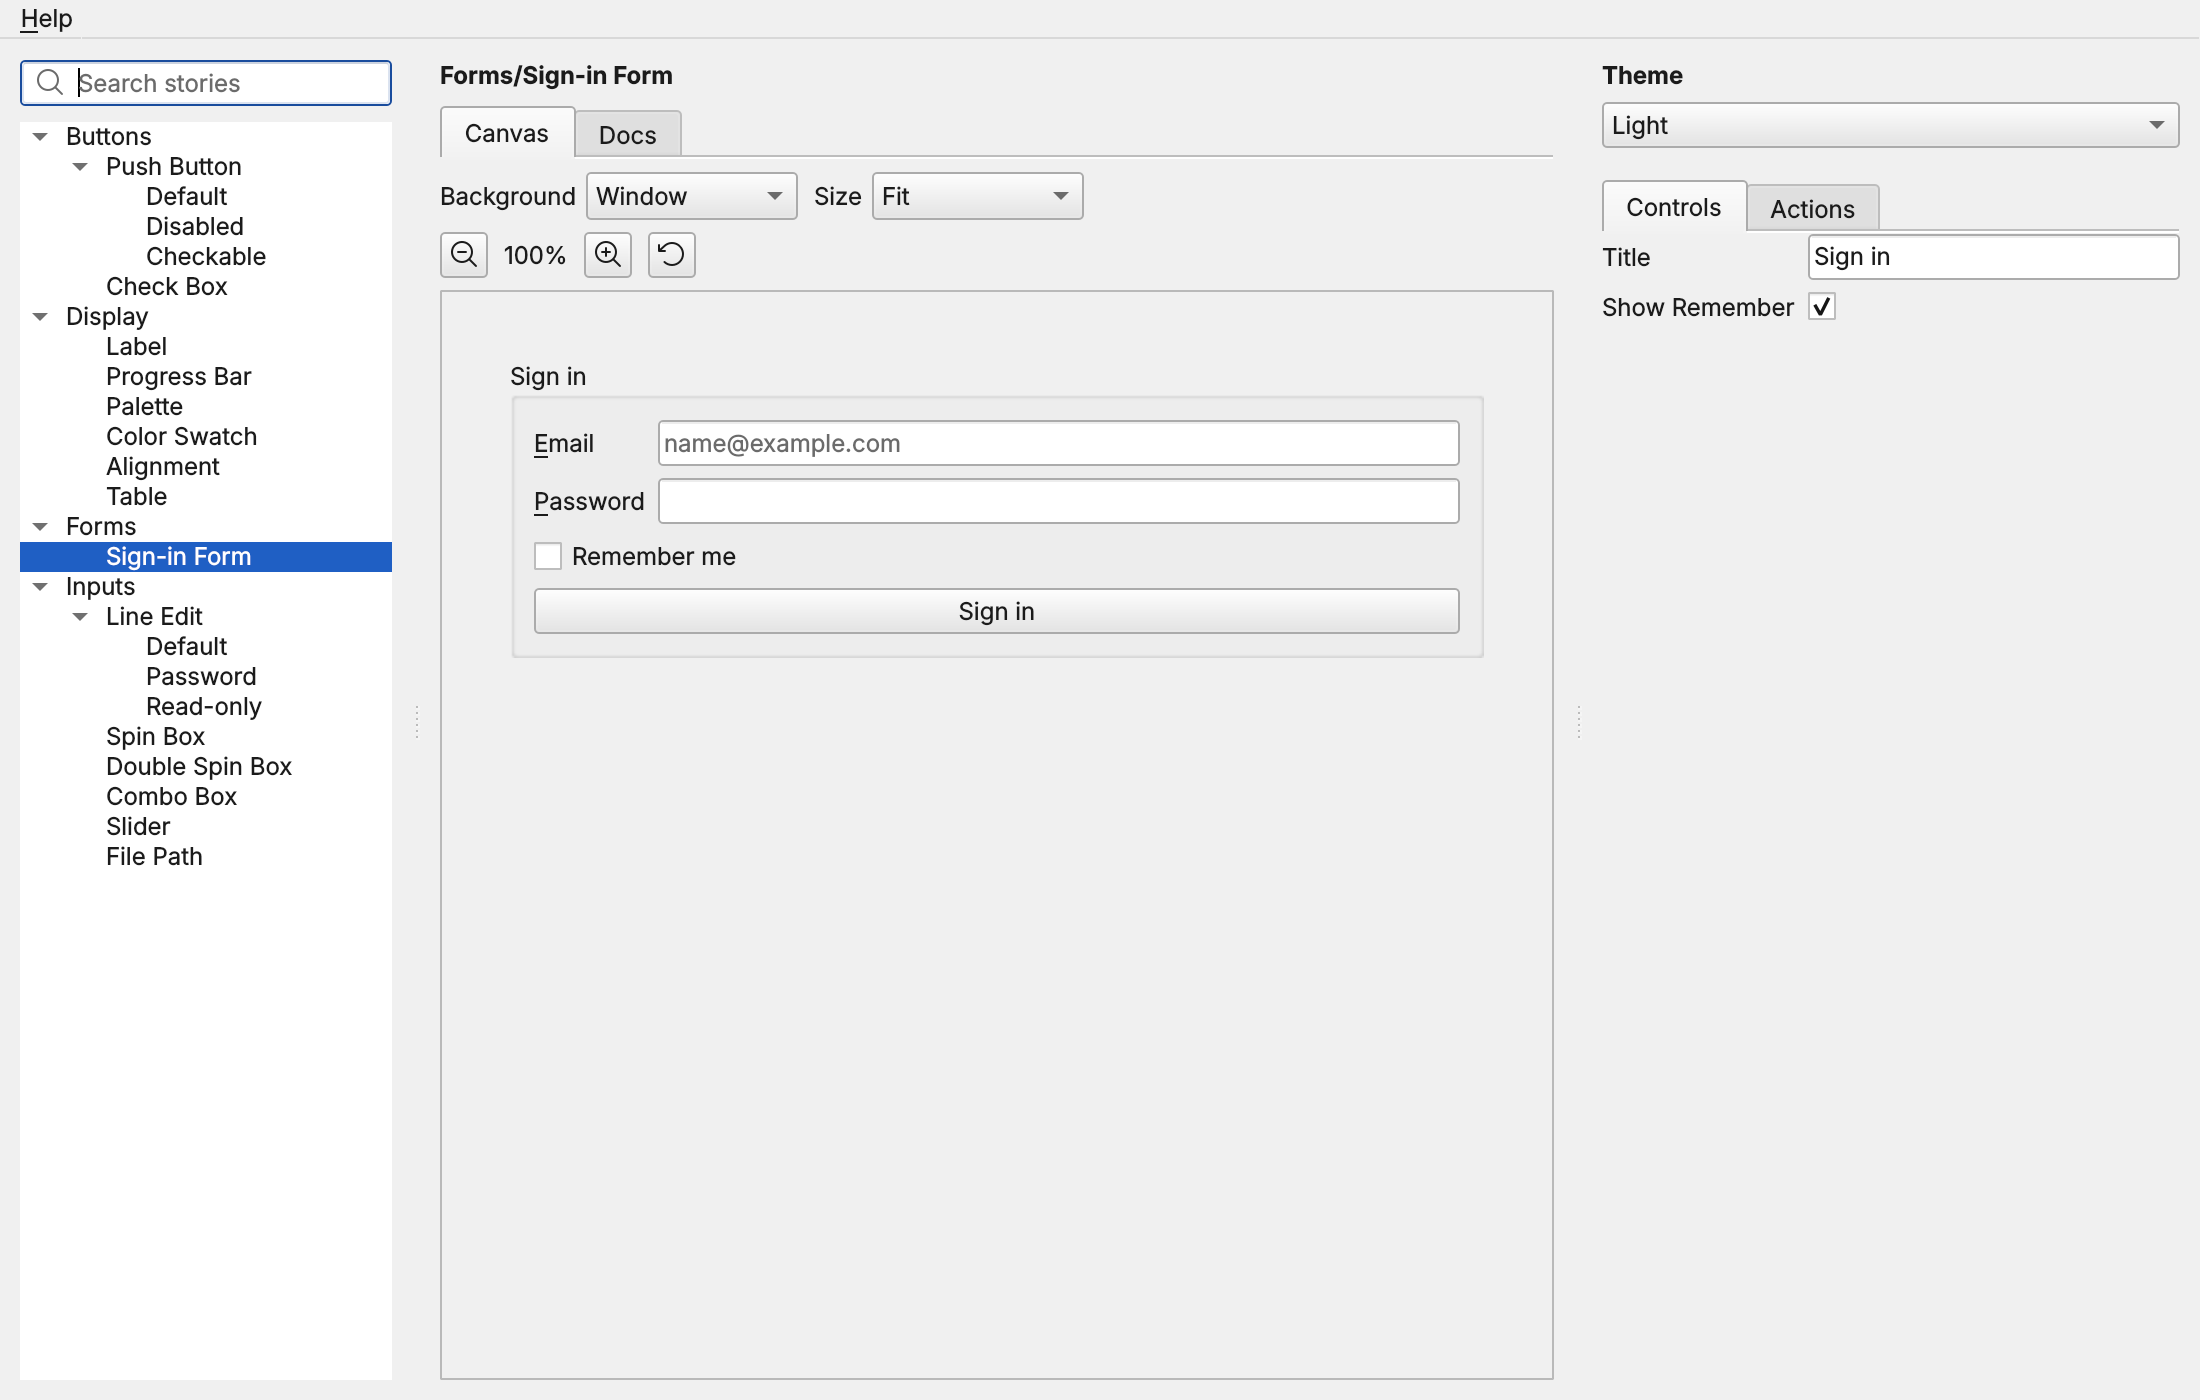
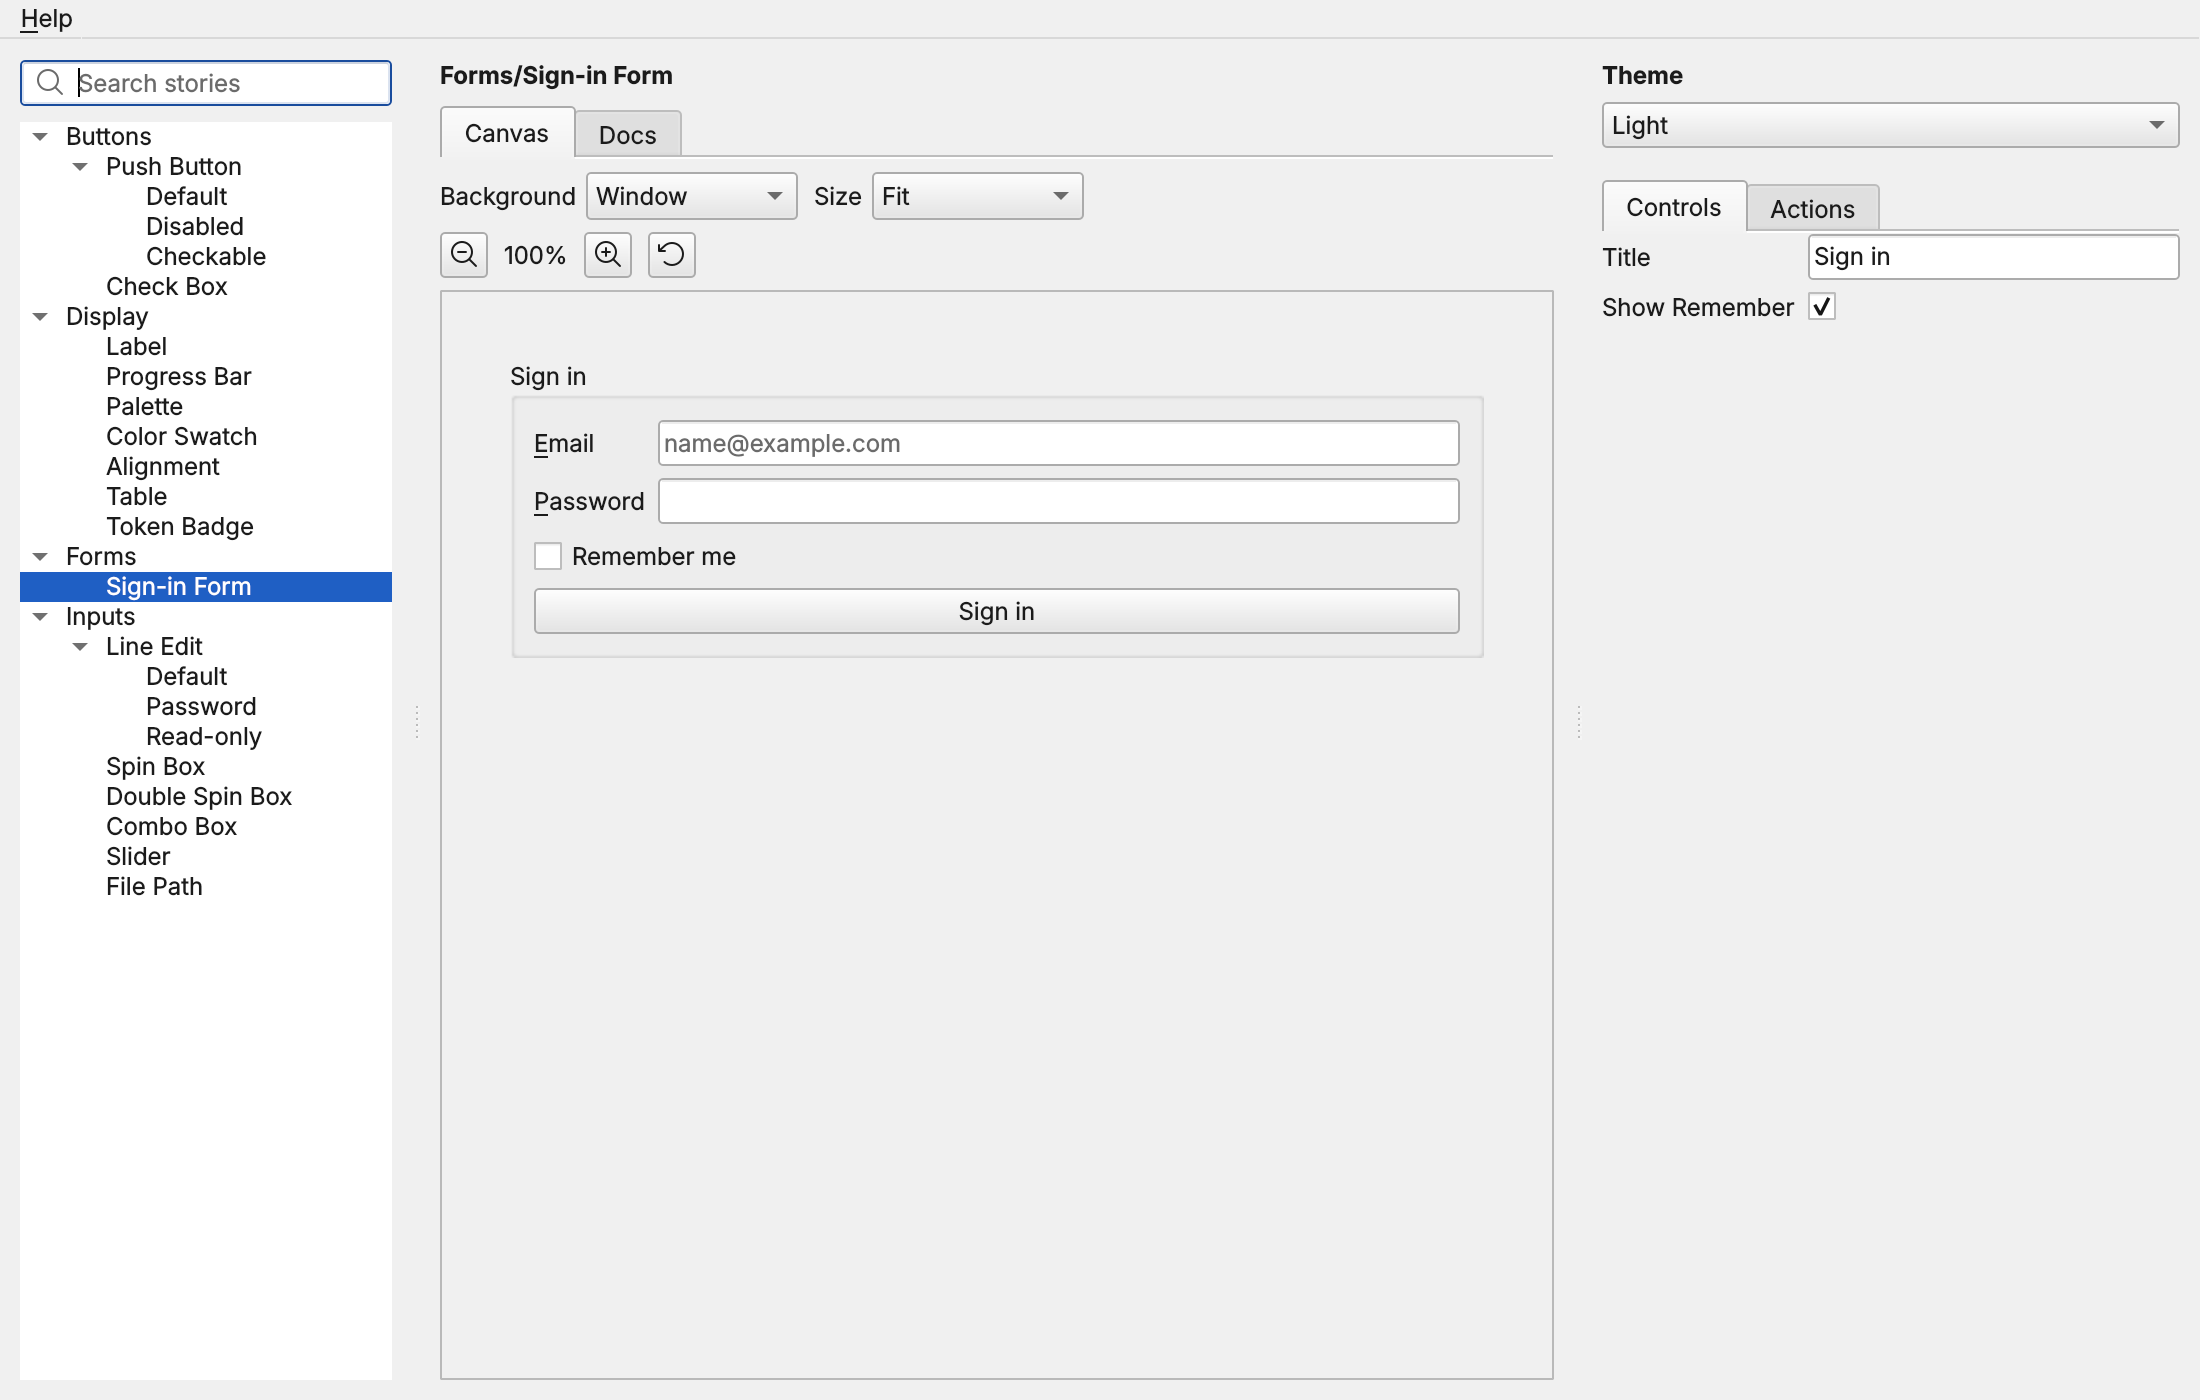
Docs: render the gallery and one image per control type
scripts/docs/render_docs_images.py renders docs/images/gallery.png and
docs/images/controls/<type>.png offscreen in the Light theme; controls.md
shows each control's image. A full test runs the script into a temporary
folder, and a core test checks that every image a page shows exists.

Claude-Session: https://claude.ai/code/session_011DhpDjngPc5U6cXUbZuCjE

Changed region(s): [[0.0, 0.3686, 0.1855, 0.645]]

diff --git a/scripts/docs/render_docs_images.py b/scripts/docs/render_docs_images.py
@@ -1,0 +1,131 @@
+"""Render the images of the docs pages into docs/images/ (development only; not part of the wheel).
+
+    uv run python scripts/docs/render_docs_images.py [--output DIR]
+
+It writes ``gallery.png`` (the gallery on the "Forms/Sign-in Form" example) and ``controls/<type>.png``, one per control type: the editor
+as the gallery's controls panel draws it, with its label. Everything is rendered offscreen at twice the display scale in the built-in
+Light theme with ``QWidget.grab()``, so the output does not depend on a display. The two images of docs/themes.md come from
+``render_theming_images.py``, which renders at the display scale under its own providers.
+"""
+
+import argparse
+import os
+import sys
+from collections.abc import Sequence
+from pathlib import Path
+
+os.environ.setdefault("QT_QPA_PLATFORM", "offscreen")
+os.environ.setdefault("QT_SCALE_FACTOR", "2")
+
+from PySide6.QtCore import Qt
+from PySide6.QtWidgets import QApplication, QVBoxLayout, QWidget
+
+from pyside6_storybook import (
+    BoolControl,
+    ChoiceControl,
+    ColorControl,
+    EnumControl,
+    FileControl,
+    FloatControl,
+    IntControl,
+    StoryRegistry,
+    TextControl,
+    load_stories,
+)
+from pyside6_storybook.cli import EXAMPLES_MODULE
+from pyside6_storybook.controls import Control
+from pyside6_storybook.gui.controls_panel import ControlsPanel
+from pyside6_storybook.gui.window import GalleryWindow
+from pyside6_storybook.themes import BuiltinThemeProvider
+
+_DEFAULT_OUTPUT = Path(__file__).resolve().parents[2] / "docs" / "images"
+_WINDOW_SIZE = (1100, 700)
+_STORY = "Forms/Sign-in Form"
+_PANEL_WIDTH = 360
+_MARGIN = 12
+_THEME = "Light"
+
+_CONTROLS: dict[str, Control] = {
+    "text": TextControl("title", "Sign in", description="The group box's title."),
+    "bool": BoolControl("show_remember", default=True, description="Show the Remember me check box."),
+    "choice": ChoiceControl("size", "Medium", ["Small", "Medium", "Large"], description="The button size."),
+    "int": IntControl("columns", 3, 1, 12, slider=True, description="How many columns the grid has."),
+    "float": FloatControl("opacity", 0.5, 0.0, 1.0, step=0.05, slider=True, description="The opacity of the overlay."),
+    "color": ColorControl("accent", "#3584e4", description="The accent colour."),
+    "enum": EnumControl("elide", Qt.TextElideMode.ElideRight, description="Where a long text is shortened."),
+    "file": FileControl("source", "data/report.csv", filter="Tables (*.csv *.tsv)", description="The file to open."),
+}
+
+
+def _save(widget: QWidget, path: Path) -> None:
+    path.parent.mkdir(parents=True, exist_ok=True)
+    if not widget.grab().save(str(path), "PNG"):
+        raise OSError(f"could not write {path}")
+
+
+def render_gallery(app: QApplication, registry: StoryRegistry, path: Path) -> None:
+    """Render the gallery window showing the sign-in form into a PNG file."""
+    provider = BuiltinThemeProvider()
+    provider.activate(app)
+    window = GalleryWindow(registry, provider)
+    try:
+        window.set_theme(_THEME)
+        window.resize(*_WINDOW_SIZE)
+        window.show()
+        window.select_story(_STORY)
+        app.processEvents()
+        _save(window, path)
+    finally:
+        window.close()
+        window.deleteLater()
+        provider.deactivate()
+
+
+def render_controls(app: QApplication, folder: Path) -> None:
+    """Render each control type's labelled editor, as the controls panel draws it, into ``folder/<type>.png``."""
+    provider = BuiltinThemeProvider()
+    provider.activate(app)
+    try:
+        provider.set_theme(_THEME)
+        for name, control in _CONTROLS.items():
+            host = QWidget()
+            host.setAutoFillBackground(True)
+            layout = QVBoxLayout(host)
+            layout.setContentsMargins(_MARGIN, _MARGIN, _MARGIN, _MARGIN)
+            layout.addWidget(ControlsPanel([control], host))
+            host.setFixedWidth(_PANEL_WIDTH)
+            host.show()
+            host.adjustSize()
+            app.processEvents()
+            focused = app.focusWidget()
+            if focused is not None:
+                focused.clearFocus()
+            app.processEvents()
+            try:
+                _save(host, folder / f"{name}.png")
+            finally:
+                host.close()
+                host.deleteLater()
+    finally:
+        provider.deactivate()
+
+
+def main(argv: Sequence[str] | None = None) -> int:
+    """Render the gallery image and the control images."""
+    parser = argparse.ArgumentParser(description="Render the images of the docs pages.")
+    parser.add_argument("--output", type=Path, default=_DEFAULT_OUTPUT, help="the folder to write into (default: docs/images)")
+    options = parser.parse_args(argv)
+    app = QApplication.instance() or QApplication(sys.argv)
+    if not isinstance(app, QApplication):
+        raise TypeError("a QApplication is required")
+    result = load_stories([EXAMPLES_MODULE])
+    if result.errors:
+        raise RuntimeError(f"the example stories failed to load: {result.errors}")
+    output = options.output
+    render_gallery(app, result.registry, output / "gallery.png")
+    render_controls(app, output / "controls")
+    return 0
+
+
+if __name__ == "__main__":
+    sys.exit(main())

diff --git a/tests/test_docs_images.py b/tests/test_docs_images.py
@@ -1,0 +1,40 @@
+"""The script that renders the docs pages' images writes every image the pages show."""
+
+import os
+import subprocess
+import sys
+from pathlib import Path
+
+import pytest
+from PySide6.QtGui import QImage
+
+_ROOT = Path(__file__).resolve().parents[1]
+_SCRIPT = _ROOT / "scripts" / "docs" / "render_docs_images.py"
+_CONTROL_TYPES = ("text", "bool", "choice", "int", "float", "color", "enum", "file")
+
+pytestmark = pytest.mark.skipif(not _SCRIPT.is_file(), reason="scripts/ is not part of this source tree")
+
+
+@pytest.mark.full
+def test_the_script_renders_the_gallery_and_one_image_per_control_type(tmp_path: Path) -> None:
+    environment = {**os.environ, "QT_QPA_PLATFORM": "offscreen"}
+    environment.pop("QT_SCALE_FACTOR", None)
+
+    completed = subprocess.run(
+        [sys.executable, str(_SCRIPT), "--output", str(tmp_path)],
+        env=environment,
+        capture_output=True,
+        text=True,
+        timeout=100,
+        check=False,
+    )
+
+    assert completed.returncode == 0, completed.stderr
+    expected = {"gallery.png": (800, 4000, 500, 3000)}
+    expected.update({f"controls/{name}.png": (150, 1500, 30, 300) for name in _CONTROL_TYPES})
+    assert sorted(str(path.relative_to(tmp_path).as_posix()) for path in tmp_path.rglob("*.png")) == sorted(expected)
+    for name, (min_width, max_width, min_height, max_height) in expected.items():
+        image = QImage(str(tmp_path / name))
+        assert not image.isNull(), name
+        assert min_width <= image.width() <= max_width, (name, image.width())
+        assert min_height <= image.height() <= max_height, (name, image.height())

diff --git a/tests/test_docs.py b/tests/test_docs.py
@@ -77,6 +77,19 @@ def test_no_page_in_the_nav_links_outside_docs_relatively() -> None:
     assert not problems
 
 
+def test_every_image_a_page_shows_exists_under_docs() -> None:
+    missing: list[str] = []
+    for page in sorted(_DOCS.glob("*.md")):
+        for target in _LINK.findall(page.read_text(encoding="utf-8")):
+            if target.startswith(("http://", "https://", "mailto:", "#")) or not target.lower().endswith((".png", ".jpg", ".svg", ".gif")):
+                continue
+            path = (page.parent / target).resolve()
+            if not path.is_file() or not path.is_relative_to(_DOCS.resolve()):
+                missing.append(f"{page.name}: {target}")
+
+    assert not missing
+
+
 # Reading the pages
 
 

diff --git a/docs/controls.md b/docs/controls.md
@@ -13,6 +13,33 @@ Each control is an argument of the story and an editor in the gallery's controls
 | `EnumControl(name, default)` | combo box of the member names | the enum member |
 | `FileControl(name, default="", *, filter="")` | path field and a "Browse…" button | `pathlib.Path`, or `None` while empty |
 
+How each editor looks in the gallery's controls pane:
+
+- `text` (TextControl):
+
+  ![The text editor: a line edit labelled Title that holds Sign in](images/controls/text.png)
+- `bool` (BoolControl):
+
+  ![The bool editor: a check box labelled Show Remember, checked](images/controls/bool.png)
+- `choice` (ChoiceControl):
+
+  ![The choice editor: a combo box labelled Size that shows Medium](images/controls/choice.png)
+- `int` (IntControl):
+
+  ![The int editor: a spin box labelled Columns with a slider beside it, at 3](images/controls/int.png)
+- `float` (FloatControl):
+
+  ![The float editor: a spin box labelled Opacity with a slider beside it, at 0.50](images/controls/float.png)
+- `color` (ColorControl):
+
+  ![The colour editor: a swatch button and a hex field labelled Accent, at #3584e4](images/controls/color.png)
+- `enum` (EnumControl):
+
+  ![The enum editor: a combo box labelled Elide that shows ElideRight](images/controls/enum.png)
+- `file` (FileControl):
+
+  ![The file editor: a path field and a Browse button labelled Source, holding data/report.csv](images/controls/file.png)
+
 Every control also takes two keyword-only fields:
 
 - `label`: the text of the form label. Without it the label is derived from `name`: `tile_type` becomes "Tile Type".

diff --git a/AGENTS.md b/AGENTS.md
@@ -191,7 +191,11 @@ in the same pull request as the bump.
   fixture, and imports `pyside6_storybook.testing` inside the hooks. `SESSION_KEY`, the `config.stash` key of the `StorybookSession`,
   lives here for the same reason. A test checks that importing it imports no `PySide6` or `pyside6_storybook.*` module
   - `py.typed` - marks the package as typed
-- `scripts/docs/` - development only: `render_theming_images.py` renders the two screenshots of `docs/themes.md`
+- `scripts/docs/` - development only: `render_docs_images.py` renders `docs/images/gallery.png` (the gallery on the sign-in form) and
+  `docs/images/controls/<type>.png`, one per control type (`--output DIR` writes elsewhere), offscreen in the Light theme at 2x;
+  `render_theming_images.py` renders the two screenshots of `docs/themes.md`. Refresh the images with
+  `uv run python scripts/docs/render_docs_images.py` (and the other script) and commit them, whenever the gallery's look or an
+  example story changes; `tests/test_docs_images.py` runs the script into a temporary folder
 - `scripts/smoke/` - development only, not in the wheel: `smoke_check.py`, the installed-package checks `package.yml` runs (installed location,
   version, package data, the command lines, the gallery over every example in both themes, the pytest plugin). A plain script that imports
   nothing from the repository and runs with `python -I`; each step is a function that `tests/test_smoke_check.py` calls with a copy of the
